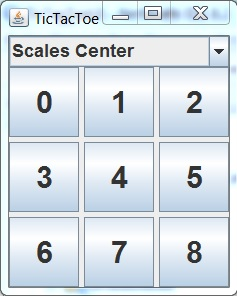
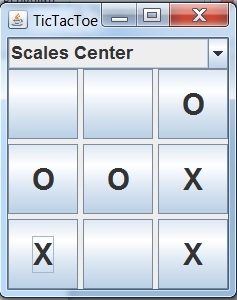
Домашнее задание от 2019_10_04 - TicTacToeUI добавлена реакция кнопок и отображение X или O

diff --git a/BuriakovskiyVitaliy/ДЗ_191004_TicTacToeUI/src/tictactoeui/FormTicTacToe.java b/BuriakovskiyVitaliy/ДЗ_191004_TicTacToeUI/src/tictactoeui/FormTicTacToe.java
@@ -14,7 +14,7 @@ import javax.swing.JComboBox;
 import javax.swing.JFrame;
 import javax.swing.JPanel;
 
-public class FormTicTacToe extends JFrame {
+public class FormTicTacToe extends JFrame implements ActionListener {
 
     public JFrame jFrame;
     public JPanel jpanSetting, jpanMatrix;
@@ -23,6 +23,7 @@ public class FormTicTacToe extends JFrame {
     public JPanel[] jpanButton;
 
     public Vector<String> vector;
+    public boolean igrok = false;
 
     public FormTicTacToe() {
         jFrame = new JFrame();
@@ -56,7 +57,7 @@ public class FormTicTacToe extends JFrame {
                     }
 
                 }
-                
+
                 if (((String) jCoBoxSetting.getSelectedItem()).equals("Scales All")) {
                     for (int i = 0; i < jpanButton.length; i++) {
                         jpanButton[i].setLayout(new GridBagLayout());
@@ -71,9 +72,10 @@ public class FormTicTacToe extends JFrame {
         jFrame.add(jpanSetting);
         jFrame.add(jpanMatrix);
         for (int i = 0; i < buttMatrix.length; i++) {
-            buttMatrix[i] = new JButton(String.valueOf(i));
+            buttMatrix[i] = new JButton();
             buttMatrix[i].setPreferredSize(new Dimension(70, 70));
             buttMatrix[i].setFont(new Font("Arial", 1, 30));
+            this.buttMatrix[i].addActionListener(this);
 
             jpanButton[i] = new JPanel();
 
@@ -92,5 +94,20 @@ public class FormTicTacToe extends JFrame {
 
     public void tipSize() {
         jCoBoxSetting.setMaximumSize(jCoBoxSetting.getSize());
+    }
+
+    @Override
+    public void actionPerformed(ActionEvent ae) {
+        JButton btn = (JButton) ae.getSource();
+        for (int i = 0; i < 9; i++) {
+            if (btn == this.buttMatrix[i]) {
+                if (igrok) {
+                    buttMatrix[i].setText("X");
+                } else {
+                    buttMatrix[i].setText("O");
+                }
+                igrok = !igrok;
+            }
+        }
     }
 }

diff --git a/BuriakovskiyVitaliy/ComboBoxTester/src/View/MyWindow.java b/BuriakovskiyVitaliy/ComboBoxTester/src/View/MyWindow.java
@@ -51,6 +51,7 @@ public class MyWindow extends JFrame implements ActionListener
         BookComboboxModel model 
                 = new BookComboboxModel(books);
         cbox.setModel(model);
+      //  cbox = new JComboBox<>(books);
         //
         this.add(cbox);
         btnSelect = new JButton("Выбрать");
